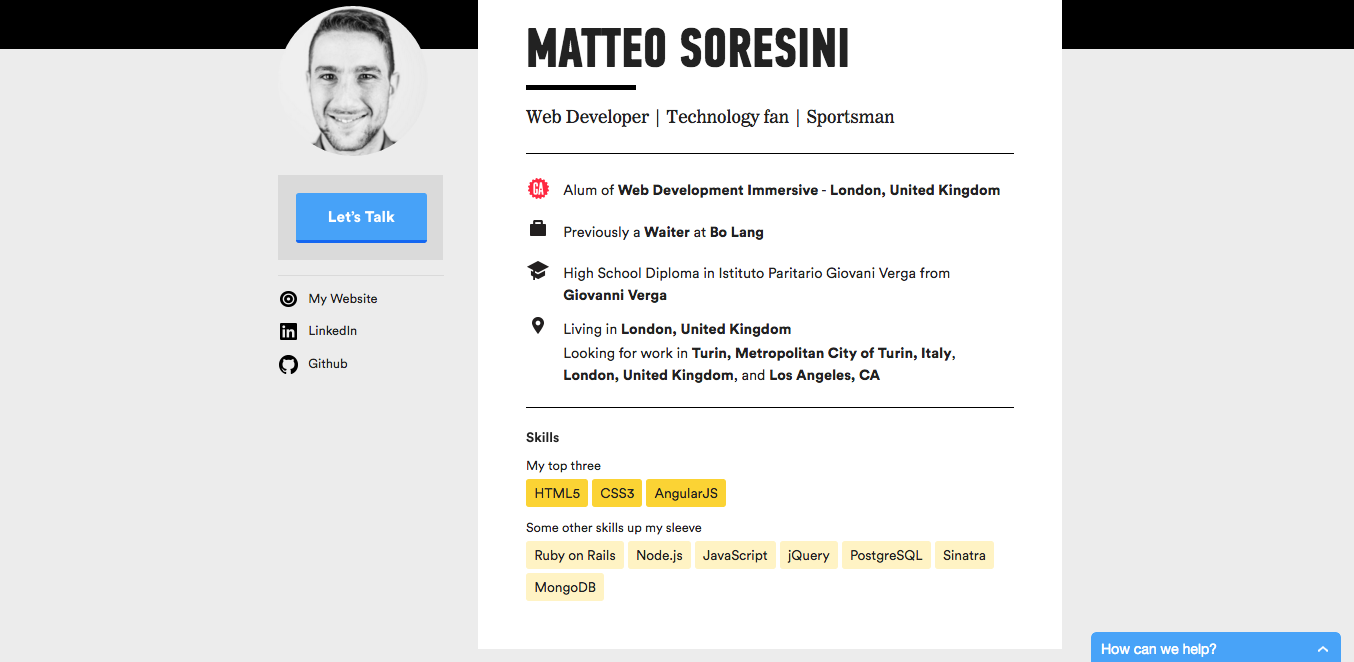
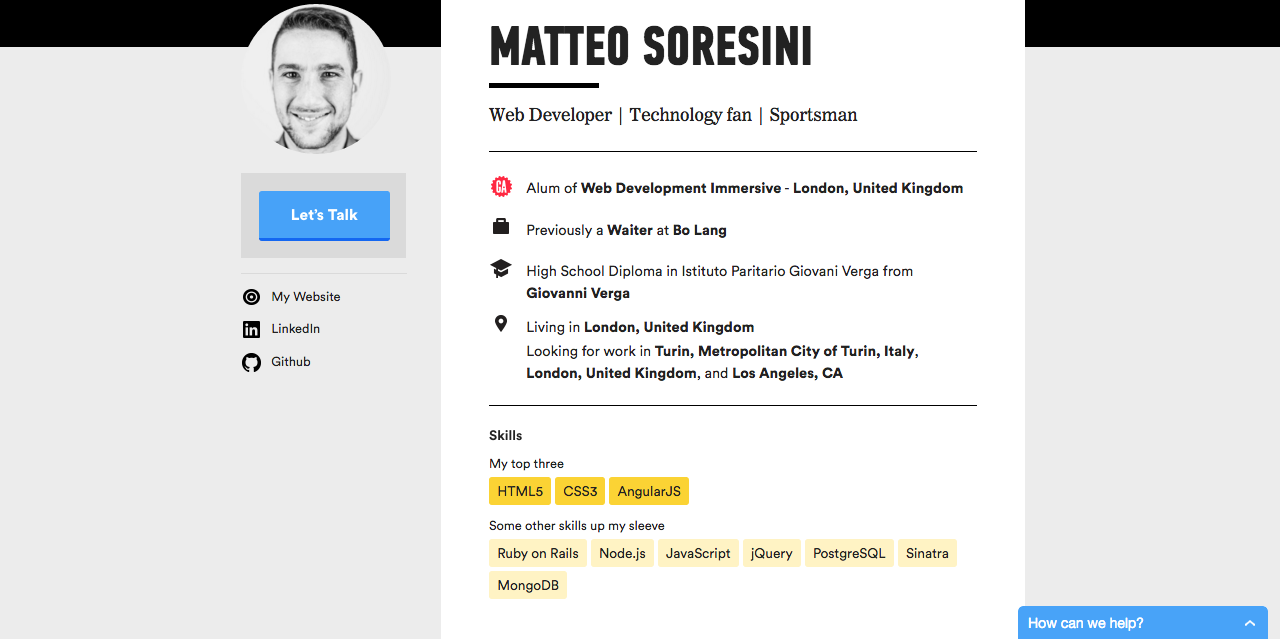
characterDoneAboutMe

diff --git a/about-me.html b/about-me.html
@@ -3,7 +3,7 @@
 <head>
 	<title>About Me</title>
 	<link rel="stylesheet" type="text/css" href="./css/about-me.css">
-	<link href='https://fonts.googleapis.com/css?family=Londrina+Sketch' rel='stylesheet' type='text/css'>
+	<link href='https://fonts.googleapis.com/css?family=Fredericka+the+Great' rel='stylesheet' type='text/css'>
 </head>
 
 <body>

diff --git a/css/about-me.css b/css/about-me.css
@@ -1,5 +1,5 @@
 body {
-   font-family: 'Londrina Sketch', cursive;
+   font-family: 'Fredericka the Great', cursive;
    background-image: url("../images/lavagna.jpg");
    background-size: cover;
 }
@@ -13,5 +13,5 @@ p {
 #img-about-me {
 	background-image: url("../images/aboutMe.png");
 	width: 100%;
-	height: 500px;
+	height: 638px;
 }
